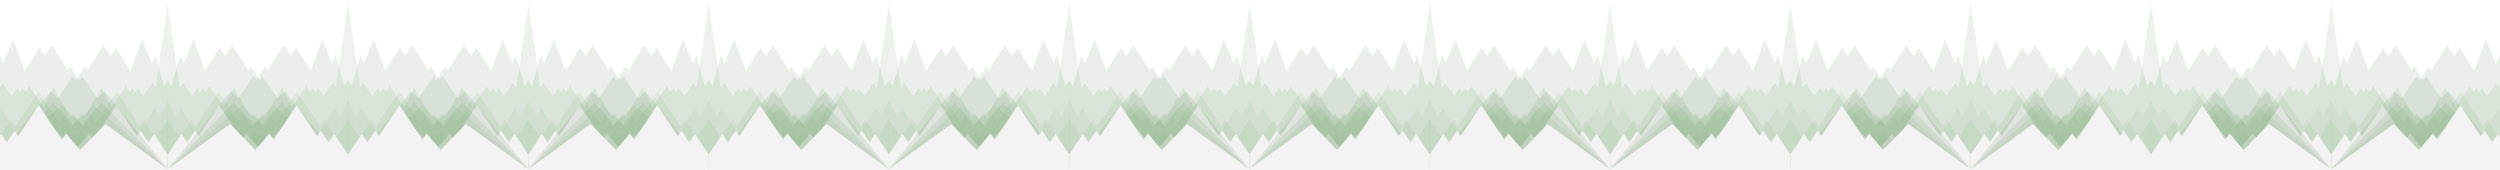
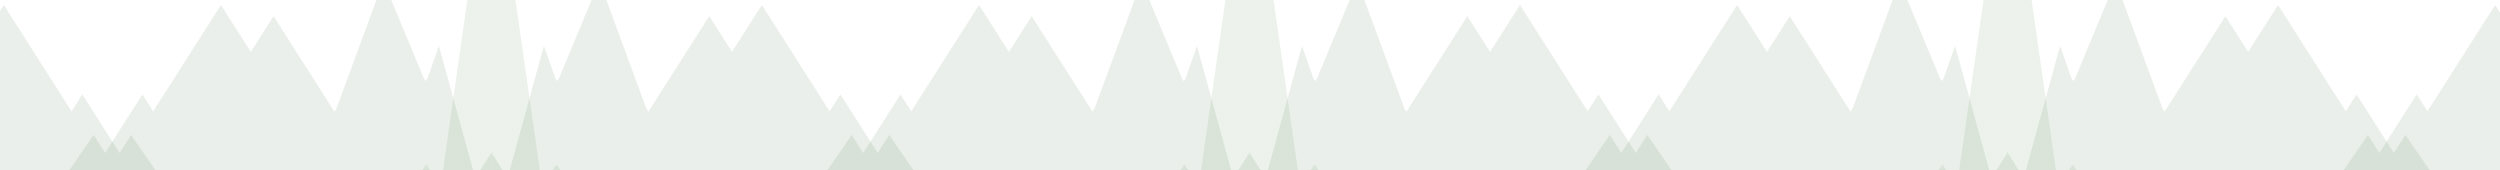
test

Changed region(s): [[0.0, 0.4412, 1.0, 1.0]]

diff --git a/static/css/code-machine.css b/static/css/code-machine.css
@@ -110,6 +110,6 @@
 }
 
 #background-color-footer {
-    background-color: #787878;
+    background-color: #f3f3f2;
 }
  
